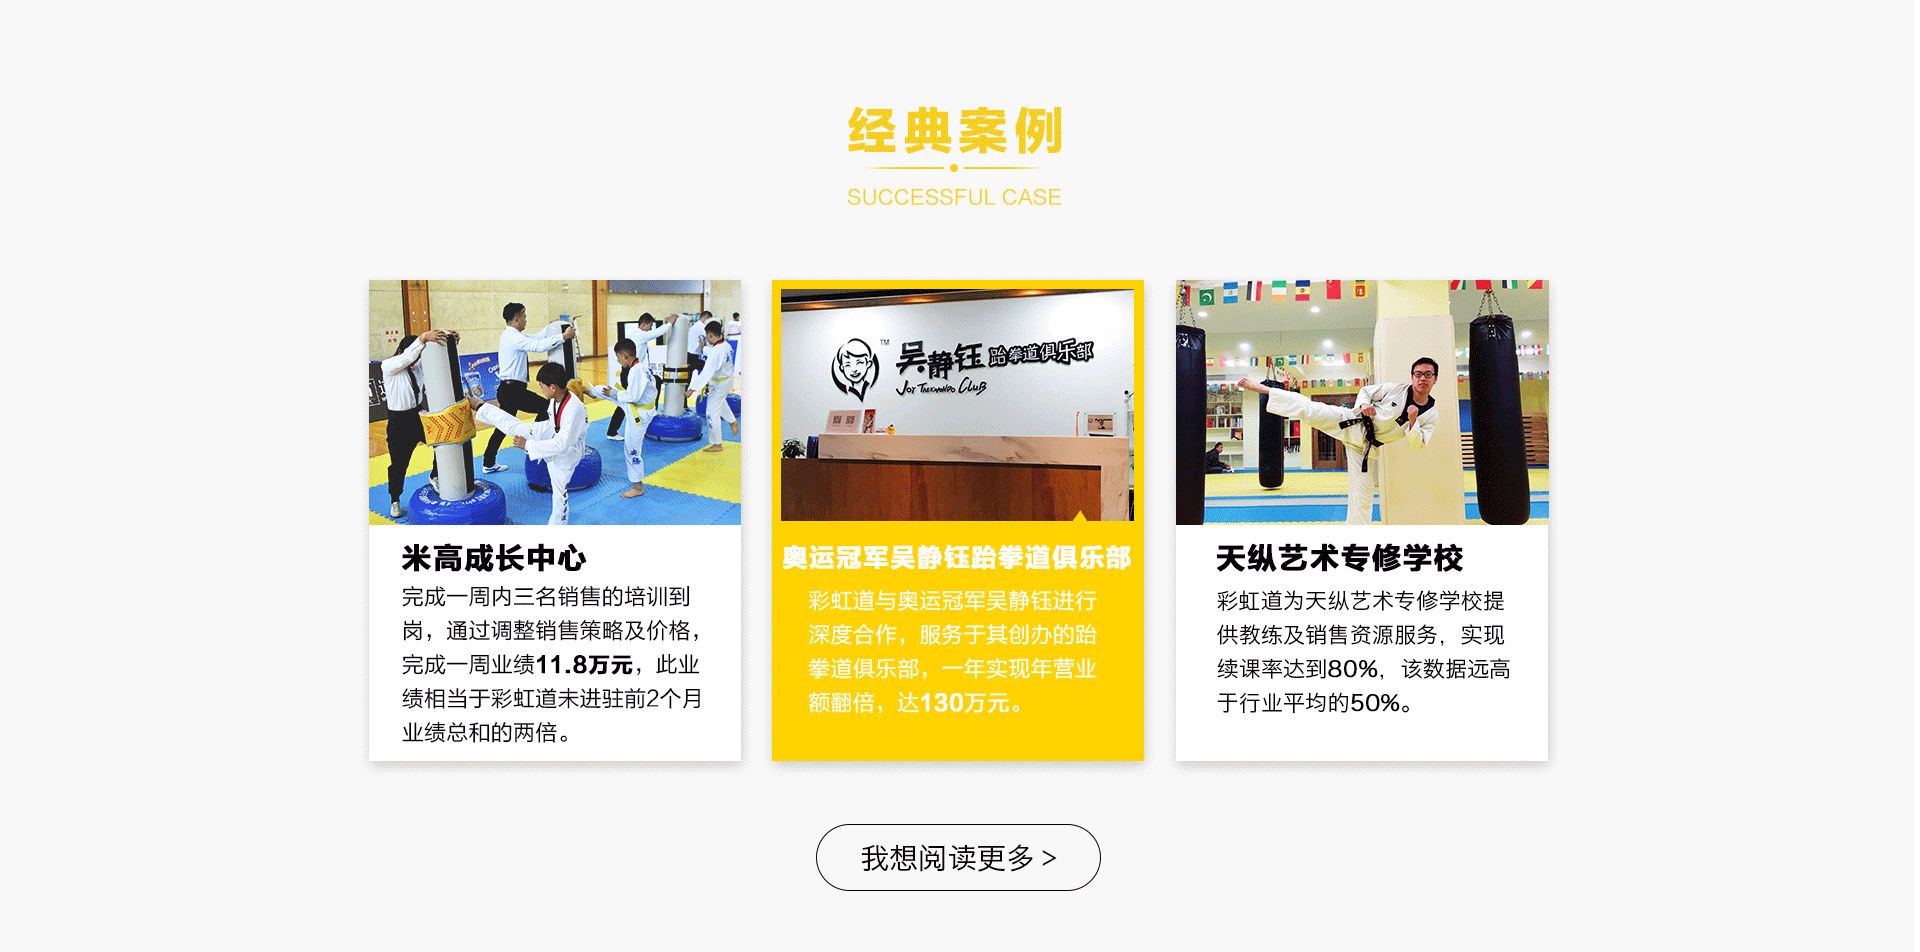
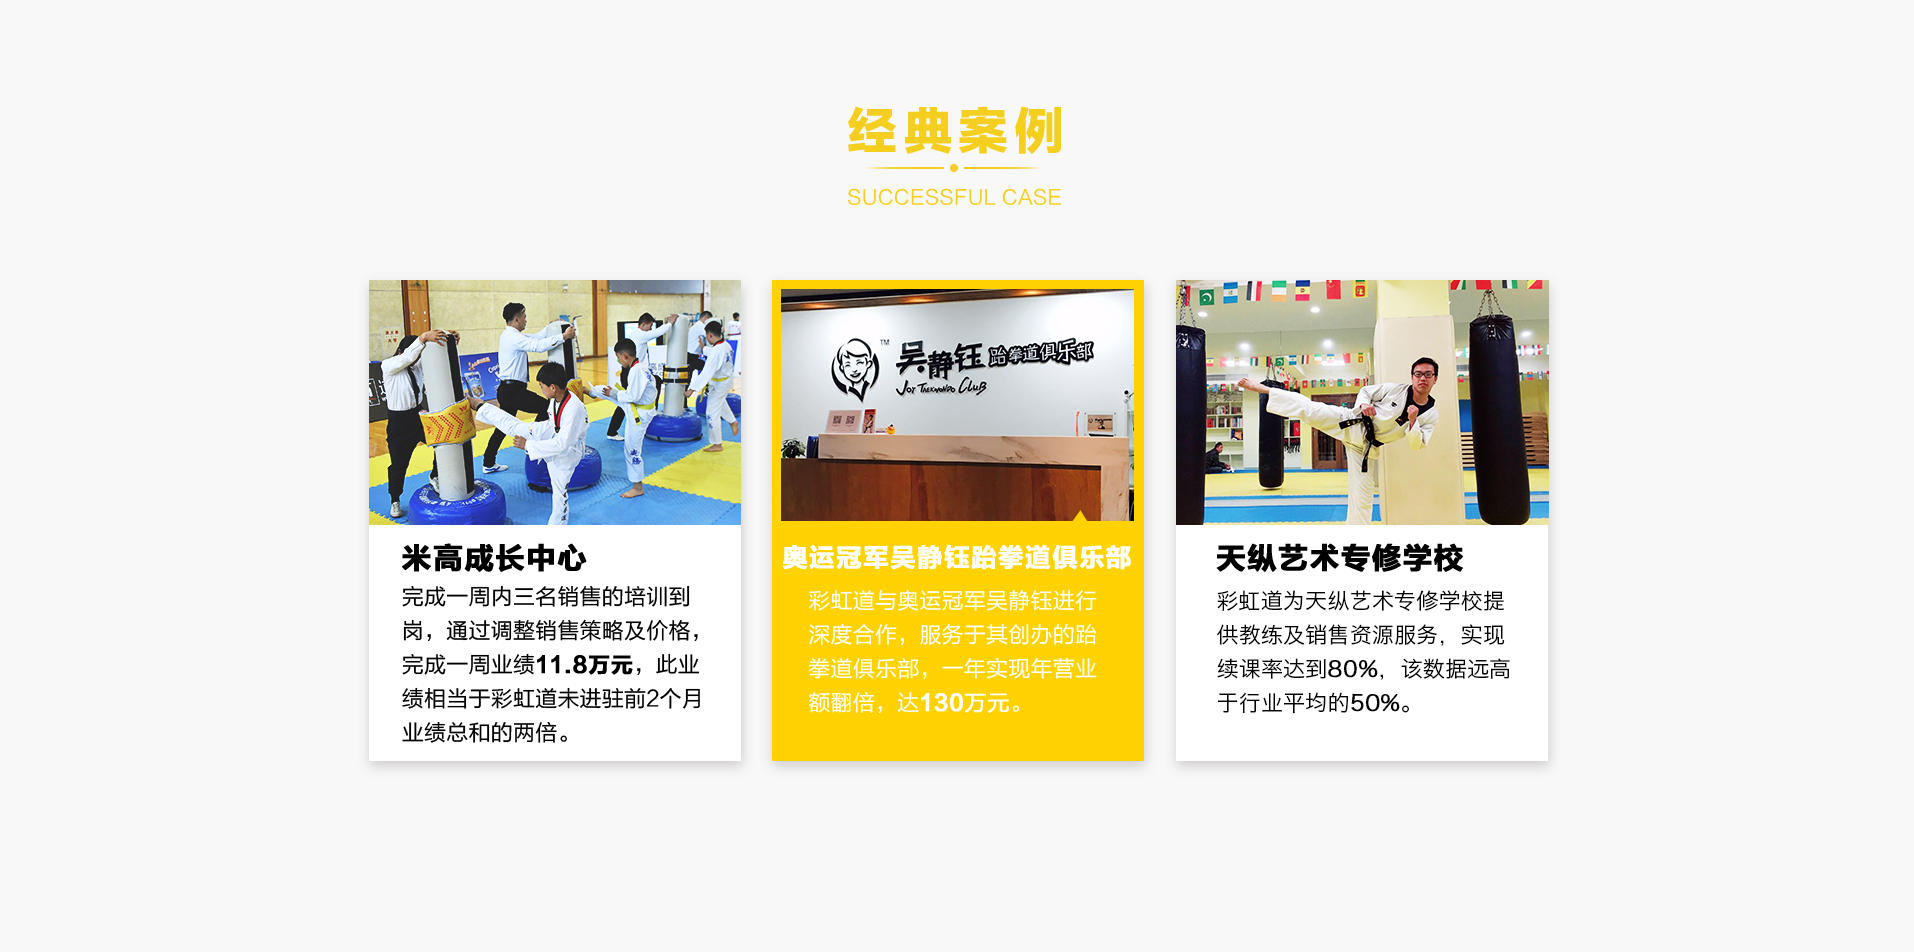
v1.1.0

diff --git a/js/homePage.js b/js/homePage.js
@@ -8,7 +8,7 @@ function scanCode() {
         // content:'<img src="src/image/img_scan_code.png">',
         content:
         '<div class="dialog_div">' +
-            '<img class="dialog_s1" src="/src/image/img_scan_code.png">' +
+            '<img class="dialog_s1" src="src/image/img_scan_code.png">' +
             '<img class="dialog_s2" id="btn_dismiss1" src="src/image/img_close_black.png" onclick="dismissDialog()" style="margin-top: 5px; margin-right: 5px;"></img>' +
         '</div>',
         lock: true,

diff --git a/css/home.css b/css/home.css
@@ -324,6 +324,19 @@ a:active {
     padding-top: 50%;
 }
 
+#section7 #section7_img {
+    width: 300px;
+    height: 80px;
+    position: absolute;
+    top: 90%;
+    left: 50%;
+    -ms-transform: translate(-50%, -50%);
+    -moz-transform: translate(-50%, -50%);
+    -webkit-transform: translate(-50%, -50%);
+    cursor: pointer;
+
+}
+
 /*合作伙伴*/
 #section8 {
     /*padding-top: 50px;*/
@@ -410,3 +423,4 @@ a:active {
     margin-left: 10%;
     margin-right: 10%;
 }
+

diff --git a/index.html b/index.html
@@ -122,6 +122,10 @@
 <!--经典案例-->
 <div id="section7" class="container-fluid">
     <img src="src/image/img_home_page6.png">
+    <div id="section7_img">
+        <img class="img_know_more" src="src/image/img_read_more.png"
+             onclick="window.location.href='examples.html'">
+    </div>
 </div>
 <!--合作伙伴-->
 <div id="section8" class="container-fluid">
